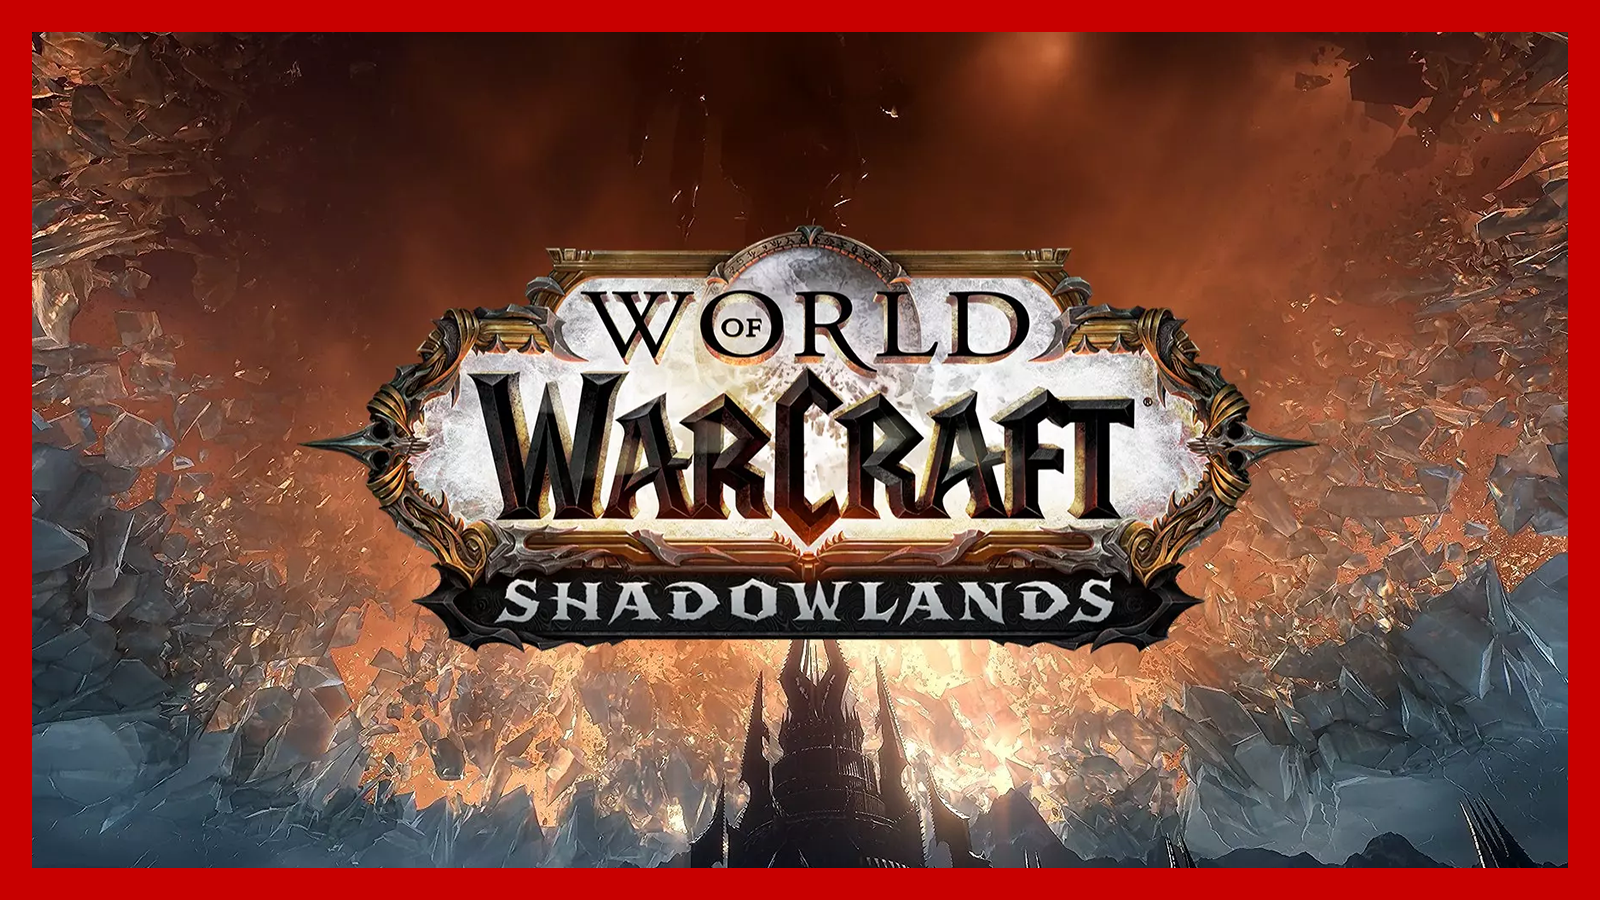
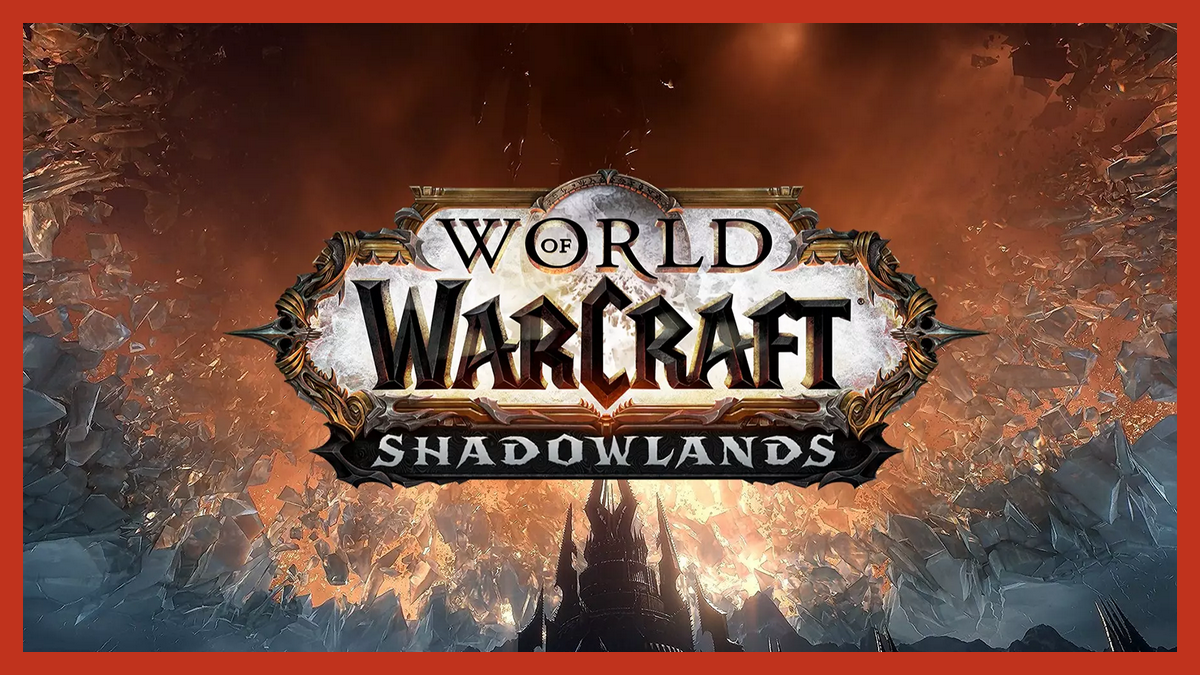
bugfix

Changed region(s): [[0.0, 0.0, 1.0, 1.0]]

diff --git a/imageprocessing/helper.go b/imageprocessing/helper.go
@@ -89,22 +89,23 @@ func Crop(originalImagePath string) (string, error) {
 
 	borderwidth := int(23)
 
-	topBorder := image.Rect(0, 0, 1200, borderwidth)
-	lowerBorder := image.Rect(0, 675-borderwidth, 1200, 675)
-	leftBorder := image.Rect(0, 0, borderwidth, 675)
-	rightBorder := image.Rect(1200-borderwidth, 0, 1200, 675)
-	colorRed := color.RGBA{192, 51, 29, 255}
-
 	croppedImageBoundsInOriginalAxis := croppedImage.Bounds()
 	drawableCropped := image.NewRGBA(croppedImageBoundsInOriginalAxis)
 	// Note that there is a offset needed because the cropped image is still in the original image coordinate system
 	// We need to create a new image which is drawable in order to draw borders on them
 	draw.Draw(drawableCropped, croppedImageBoundsInOriginalAxis, croppedImage, croppedImageBoundsInOriginalAxis.Min, draw.Src)
 
-	draw.Draw(drawableCropped, topBorder, &image.Uniform{colorRed}, image.ZP, draw.Src)
-	draw.Draw(drawableCropped, lowerBorder, &image.Uniform{colorRed}, image.ZP, draw.Src)
-	draw.Draw(drawableCropped, leftBorder, &image.Uniform{colorRed}, image.ZP, draw.Src)
-	draw.Draw(drawableCropped, rightBorder, &image.Uniform{colorRed}, image.ZP, draw.Src)
+	// Shift the rectangles in the case the croppedImageBoundsInOriginalAxis.Min doesn't match (0, 0)
+	topBorder := image.Rect(0, 0, 1200, borderwidth)
+	lowerBorder := image.Rect(0, 675-borderwidth, 1200, 675)
+	leftBorder := image.Rect(0, 0, borderwidth, 675)
+	rightBorder := image.Rect(1200-borderwidth, 0, 1200, 675)
+	colorRed := color.RGBA{192, 51, 29, 255}
+
+	draw.Draw(drawableCropped, topBorder.Add(croppedImageBoundsInOriginalAxis.Min), &image.Uniform{colorRed}, croppedImageBoundsInOriginalAxis.Min, draw.Src)
+	draw.Draw(drawableCropped, lowerBorder.Add(croppedImageBoundsInOriginalAxis.Min), &image.Uniform{colorRed}, croppedImageBoundsInOriginalAxis.Min, draw.Src)
+	draw.Draw(drawableCropped, leftBorder.Add(croppedImageBoundsInOriginalAxis.Min), &image.Uniform{colorRed}, croppedImageBoundsInOriginalAxis.Min, draw.Src)
+	draw.Draw(drawableCropped, rightBorder.Add(croppedImageBoundsInOriginalAxis.Min), &image.Uniform{colorRed}, croppedImageBoundsInOriginalAxis.Min, draw.Src)
 
 	// Save cropped image
 	outputImageName := basicFilename + "_pragafied." + format

diff --git a/imageprocessing/helper_test.go b/imageprocessing/helper_test.go
@@ -19,3 +19,10 @@ func TestImageToSmoll(t *testing.T) {
 		t.Error()
 	}
 }
+
+func TestWeirdRatio(t *testing.T) {
+	_, err := Crop("weird_img.jpeg")
+	if err != nil {
+		t.Error()
+	}
+}
